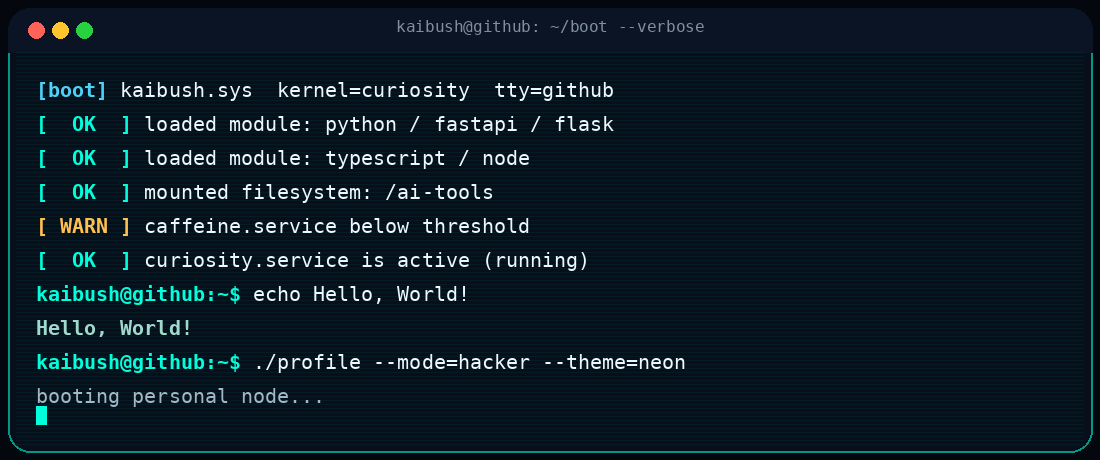
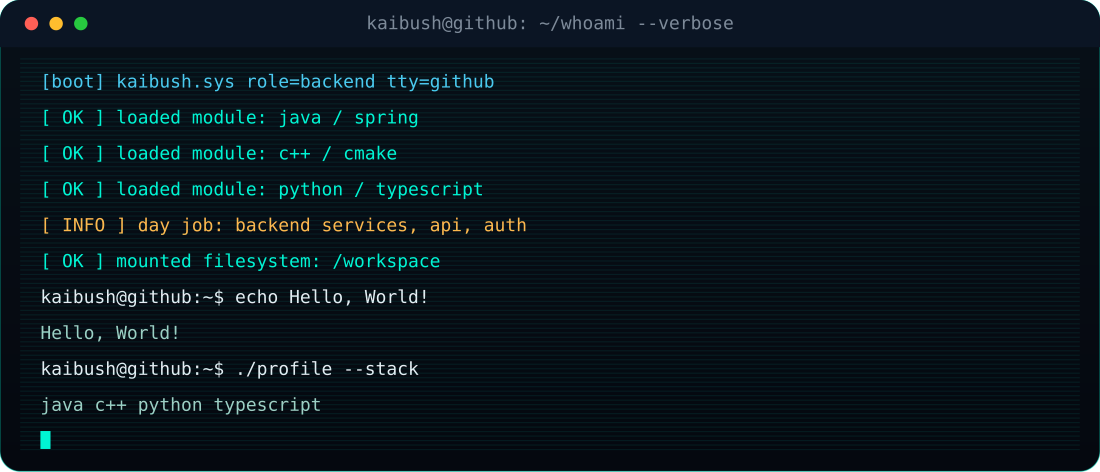
Rewrite profile intro copy, drop email, add Java/C++ to stack

diff --git a/README.md b/README.md
@@ -3,7 +3,7 @@
 </div>
 
 <p align="center">
-  <img src="https://readme-typing-svg.demolab.com?font=Fira+Code&weight=600&size=26&duration=2800&pause=900&color=00F5D4&center=true&vCenter=true&multiline=true&repeat=true&width=740&height=80&lines=Hello%2C+World!;kaibush%40github%3A~%24+whoami;Full-stack+%C2%B7+AI+tools+%C2%B7+Automation;Building+systems+that+stay+online" alt="typing hello world">
+  <img src="https://readme-typing-svg.demolab.com?font=Fira+Code&weight=600&size=26&duration=2800&pause=900&color=00F5D4&center=true&vCenter=true&multiline=true&repeat=true&width=740&height=80&lines=Hello%2C+World!;kaibush%40github%3A~%24+whoami;Backend+%C2%B7+Java+%C2%B7+C%2B%2B+%C2%B7+Python" alt="typing hello world">
 </p>
 
 <p align="center">
@@ -30,25 +30,19 @@
 ```python
 class Engineer:
     handle = "kaibush"
-    role = ["full-stack", "ai tools", "automation"]
-    stack = ["python", "typescript", "linux"]
-    currently = "shipping model infra, register pipelines, and developer UX"
-    loop = "build -> break -> measure -> ship"
-
-    def status(self) -> str:
-        return "curiosity.service is active (running)"
+    focus = "backend"
+    stack = ["java", "c++", "python", "typescript"]
+    motto = "先能跑起来，再谈优雅"
 ```
 
-写代码、做工具、盯系统。长期在 **Python / TypeScript / Linux** 这条链路上工作，最近的主线是 AI 接入、鉴权流水线和能真正上线的小产品。
+主业后端，**Java** 和 **C++** 写得最多，Python / TypeScript 属于顺手拿来干活的那一类。日常就是写服务、调接口、翻日志，碰到重复又烦的事就写个小工具解决掉，grok-register 和 linuxdo-peek 基本都这么来的。
 
-- 🔭 正在做：Grok 工具链、模型质量观测、开发者工作流
-- 🧠 感兴趣：自动化、搜索、终端体验、能跑在生产里的 AI
-- 🐧 出没：GitHub / [Linux.do](https://linux.do)
-- 📫 联系：[kaibush@163.com](mailto:kaibush@163.com)
+- 日常：后端服务、接口鉴权、排查线上问题
+- 顺手折腾：AI 接入、爬虫自动化、自己用得上的小工具
+- 出没：[GitHub](https://github.com/kaibush) · [Linux.do](https://linux.do)
 
 <p align="center">
   <a href="https://github.com/kaibush"><img src="https://img.shields.io/badge/GitHub-kaibush-181717?style=for-the-badge&logo=github&logoColor=00F5D4" alt="GitHub"></a>
-  <a href="mailto:kaibush@163.com"><img src="https://img.shields.io/badge/Email-kaibush%40163.com-00F5D4?style=for-the-badge&logo=maildotru&logoColor=05080F" alt="Email"></a>
   <a href="https://linux.do"><img src="https://img.shields.io/badge/Linux.do-community-4CC9F0?style=for-the-badge&logo=linux&logoColor=05080F" alt="Linux.do"></a>
 </p>
 
